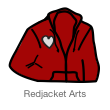
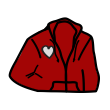
update images and add text captions to sites list

diff --git a/css/universal-bar.css b/css/universal-bar.css
@@ -75,6 +75,14 @@
 	padding:1rem;
 }
 
+.universal-bar #toggle-sites-list ul.sites-list a span{
+	color:#222;
+	font-size:.85rem;
+	white-space:nowrap;
+	overflow:hidden;
+	text-overflow:ellipsis;
+}
+
 .display-panel .display-panel-footer{
 	border-top:1px solid #808080;
 	text-align:center;
